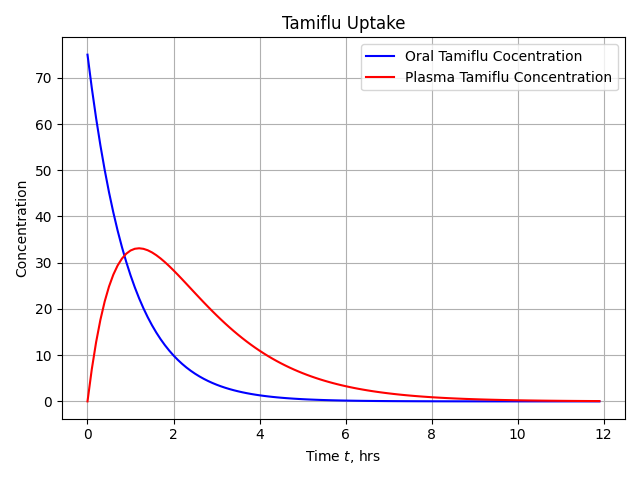
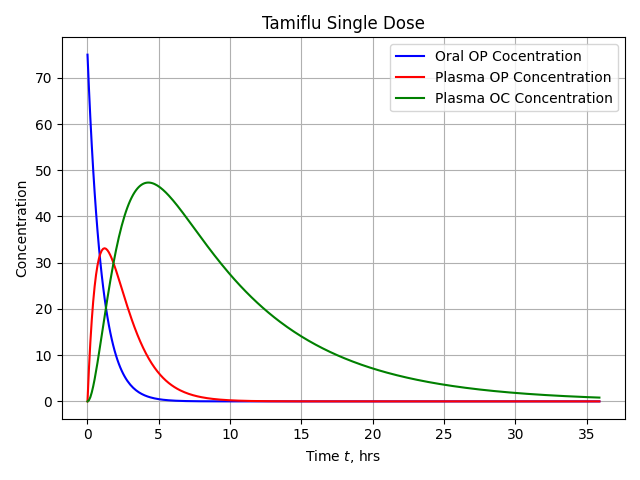
Added logic for multi dosing, but still need to iron out some kinks

diff --git a/tamiflu_model.py b/tamiflu_model.py
@@ -8,17 +8,19 @@ ke = 0.136  # OC elimintation rate
 
 Go = 75  # initial dose of 75mg
 OPo = Go * ka
-t = np.arange(0, 24, .1)  # 24 hours, iterate by tenth of hour
+t = np.arange(0, 36, .1)  # 24 hours, iterate by tenth of hour
 
-tdose = 12 # time between doses in hours
-
+tdose = 12  # time between doses in hours
+dt = .1 # dose time
+second_dose = False
 
 
 def dose(t):
-    if t % tdose <= .1:
-        return Go
+    if t % tdose <= dt:
+        return Go / dt
     else:
         return 0
+
 
 def OP_metabolism(Y, t):
     G = Y[0]
@@ -29,7 +31,18 @@ def OP_metabolism(Y, t):
     dOPdt = ka * G - kf * OP
     dOCdt = kf * OP - ke * OC
 
-    return [dGdt, dOPdt, dOCdt]
+    return [dGdt, dOPdt, dOCdt, Y[3]]
+
+def OP_metabolism_multidose(Y, t):
+    G = Y[0] + dose(t)
+    OP = Y[1]
+    OC = Y[2]
+
+    dGdt = -1 * ka * G
+    dOPdt = ka * G - kf * OP
+    dOCdt = kf * OP - ke * OC
+
+    return [dGdt, dOPdt, dOCdt, Y[3]]
 
 
 def plot(G, OP, OC):
@@ -43,7 +56,7 @@ def plot(G, OP, OC):
     # ax.plot(t, go, 'g-', label='Other Conductance', markevery=10)
 
     # Set labels and turn grid on
-    ax.set(xlabel='Time $t$, hrs', ylabel=r'Concentration', title='Tamiflu Uptake')
+    ax.set(xlabel='Time $t$, hrs', ylabel=r'Concentration', title='Tamiflu Single Dose')
     ax.grid(True)
     ax.legend(loc='best')
     # Use space most effectively
@@ -52,7 +65,7 @@ def plot(G, OP, OC):
     fig.savefig('Oseltamivir_Metabolism.png')
 
 
-Yo = [Go, 0, 0]  # initial conditions of G, dose, is 75mg and OP and OC are both 0
+Yo = [75, 0, 0, False]  # initial conditions of G, dose, is 75mg and OP and OC are both 0
 
 out = odeint(OP_metabolism, Yo, t)
 G = out[:, 0]
